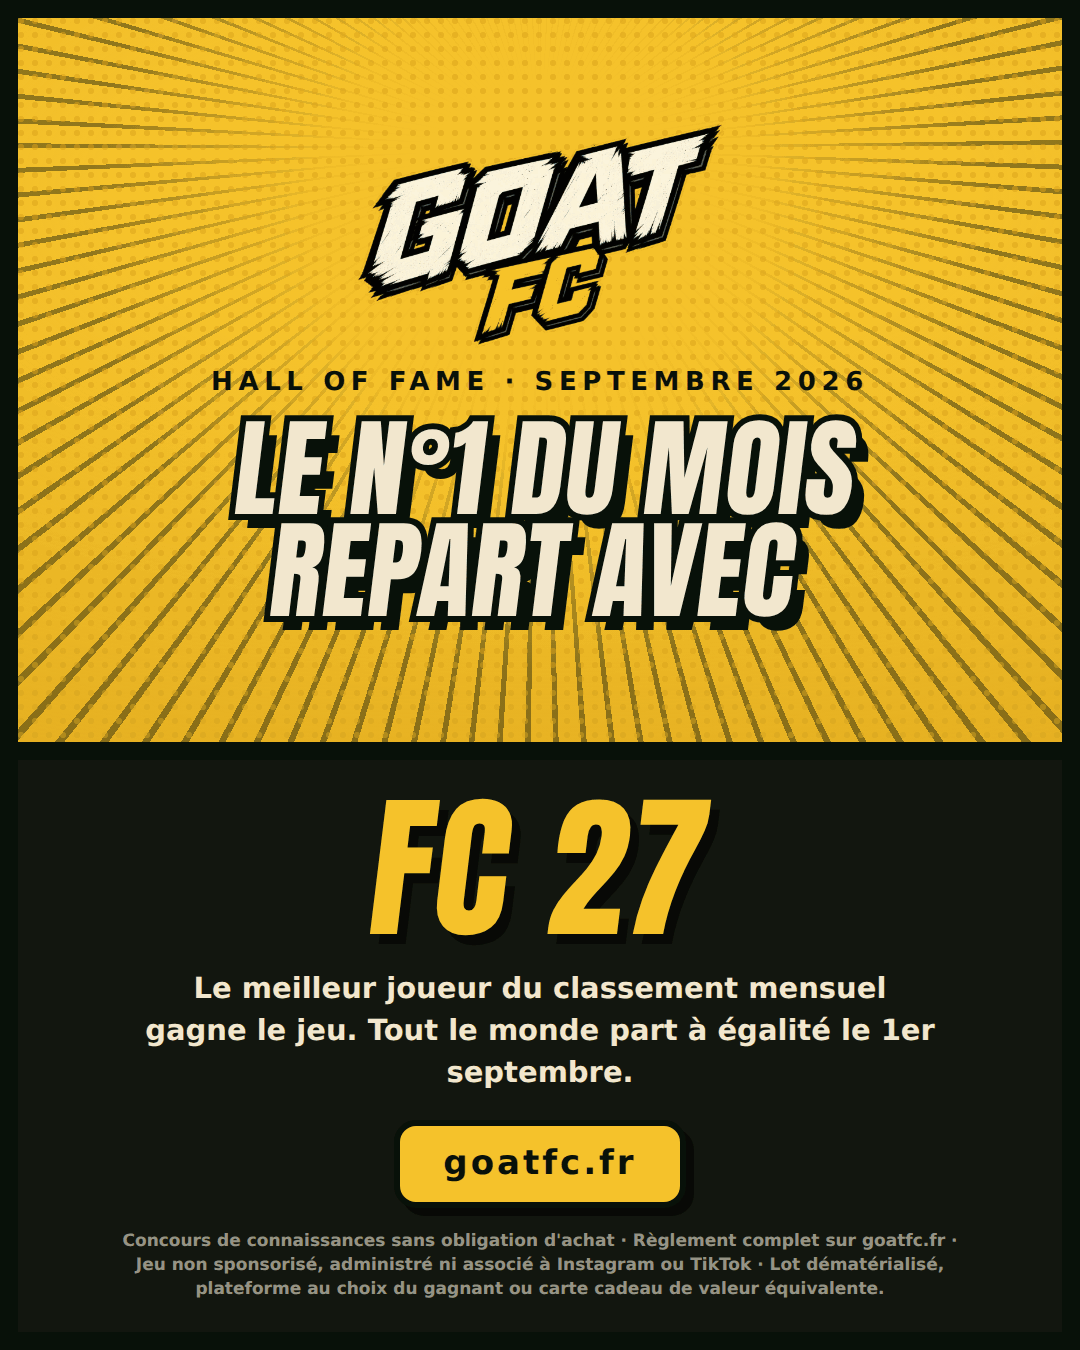
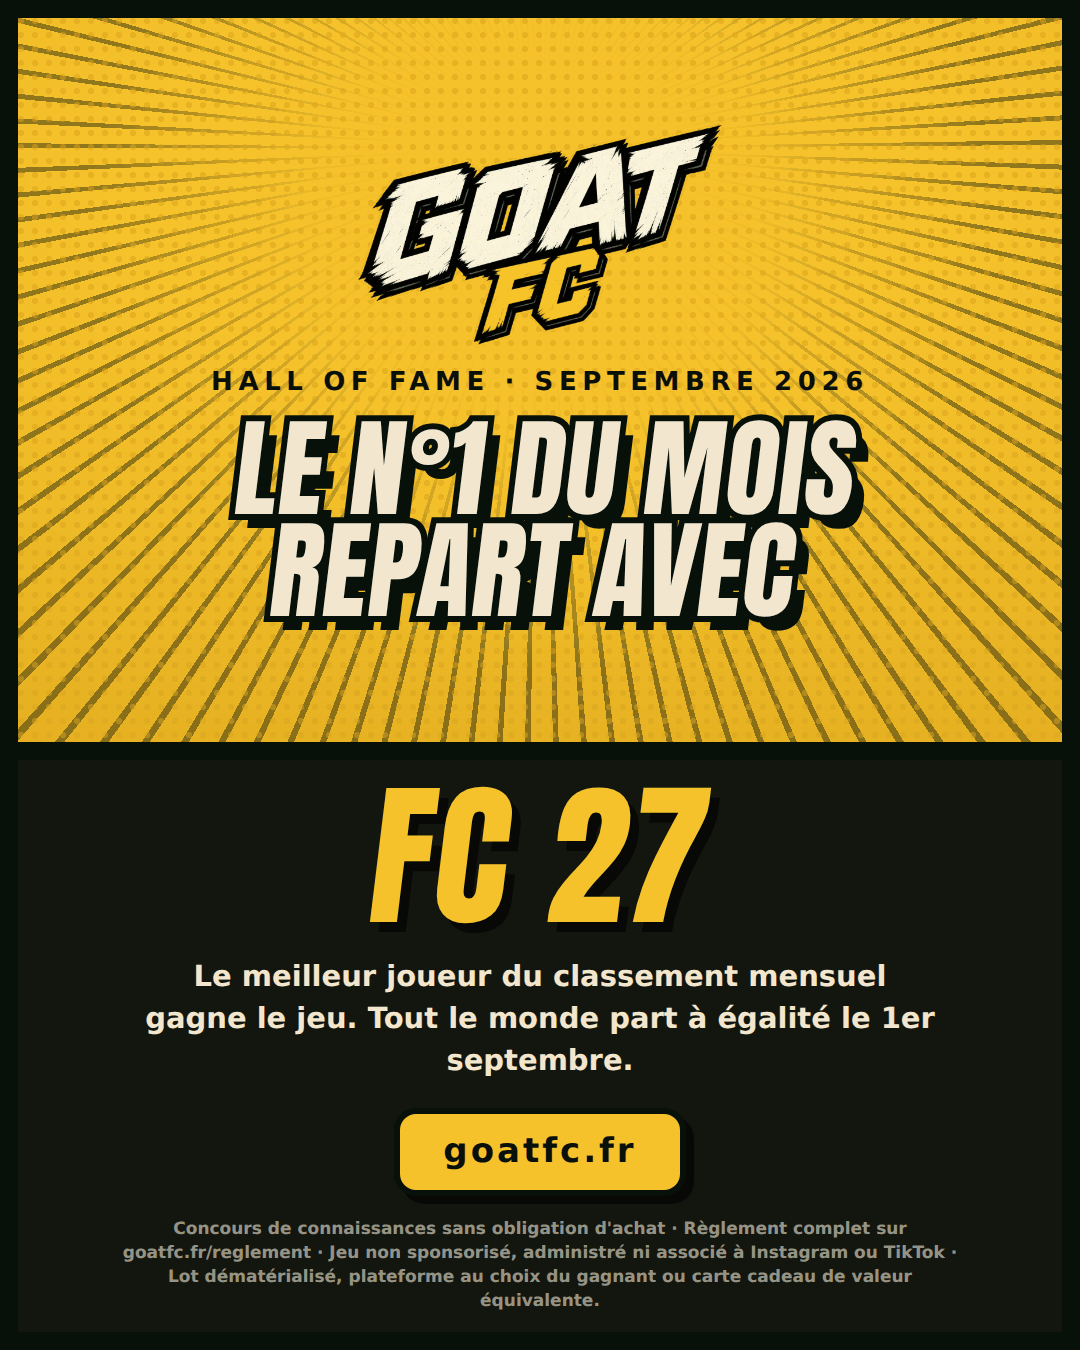
Visuels du concours : renvoyer au règlement, pas au domaine (#604)
* Reclamation du lot : la verification est sur le SERVEUR, pas dans le bundle

Le ticket demandait « un HMAC du player_id ». Il n'y en a pas, et c'est
delibere : une signature calculee dans le navigateur suppose une cle DANS
LE BUNDLE, donc lisible par quiconque ouvre les outils de developpement —
et cette cle permettrait de signer le player_id d'un AUTRE joueur pour
reclamer son lot. Une serrure dont la cle est collee sur la porte fait
croire que c'est ferme.

Le seul secret que possede un joueur est son code de recuperation. Il n'est
verifiable que la ou il est range : dans une colonne que le client ne peut
pas lire. Meme principe que recover_account, deja en place.

── CE QUI EST LIVRE ──────────────────────────────────────────────────

docs/supabase-reclamation.sql — a coller dans Supabase. Table des saisons
DOTEES (sans elle, des la deuxieme saison tous les anciens champions
verraient un bouton qui ne mene nulle part), table des reclamations fermee
a anon parce qu'elle contient des adresses email, et la fonction qui decide.
Elle prend le CODE et pas le player_id : celui-ci est public, il figure dans
bb_seasons.champion_id — le demander ouvrirait la reclamation « au nom de ».

npm run sql:reclamation — le banc. Il monte un Postgres jetable, PREND le
role anon et essaie vraiment ce qui doit echouer. 16 controles verts, dont :
anon ne lit pas les adresses, n'ecrit pas dans la table, ne s'invente pas un
[…]

Changed region(s): [[0.0917, 0.56, 0.8861, 0.9644]]

diff --git a/visuels/annonces/legendes.md b/visuels/annonces/legendes.md
@@ -18,7 +18,7 @@ Tout le monde part à égalité le 1er septembre. Le classement compte les point
 👉 Ça se joue sur goatfc.fr, sans rien installer.
 📱 Et l'appli arrive sur iOS et Android en octobre.
 
-Concours de connaissances sans obligation d'achat. Règlement complet sur goatfc.fr. Jeu non sponsorisé, administré ni associé à Instagram. Lot dématérialisé, plateforme au choix du gagnant ou carte cadeau de valeur équivalente.
+Concours de connaissances sans obligation d'achat. Règlement complet sur goatfc.fr/reglement. Jeu non sponsorisé, administré ni associé à Instagram. Lot dématérialisé, plateforme au choix du gagnant ou carte cadeau de valeur équivalente.
 
 #football #quizfoot #mercato #ligue1 #premierleague #jeuconcours #concours #goatfc
 ```
@@ -31,34 +31,7 @@ Le n°1 du mois repart avec FC 27 🏆
 Classement remis à zéro le 1er septembre — tout le monde part à égalité.
 Ça se joue sur goatfc.fr, appli iOS et Android en octobre 📱
 
-Règlement sur goatfc.fr · Sans obligation d'achat · Jeu non associé à TikTok
+Règlement sur goatfc.fr/reglement · Sans obligation d'achat · Jeu non associé à TikTok
 
 #football #quizfoot #mercato #footballtiktok #concours #goatfc
-```
-
-## stores
-
-### Instagram
-
-```
-📱 GOAT FC ARRIVE SUR iOS ET ANDROID — OCTOBRE 2026.
-
-Six modes, un classement mensuel, et des duels en direct contre tes potes.
-
-En attendant, tout est déjà jouable dans le navigateur sur goatfc.fr — et le classement de septembre est lancé, avec FC 27 pour le n°1 du mois. Autant prendre de l'avance.
-
-👉 goatfc.fr
-
-#football #quizfoot #mercato #ligue1 #premierleague #applifoot #goatfc
-```
-
-### TikTok
-
-```
-L'appli arrive en octobre 📱 iOS + Android
-
-6 modes, un classement du mois, des duels en direct.
-En attendant ça se joue déjà sur goatfc.fr 👉 et le n°1 de septembre repart avec FC 27
-
-#football #quizfoot #mercato #footballtiktok #goatfc
 ```
